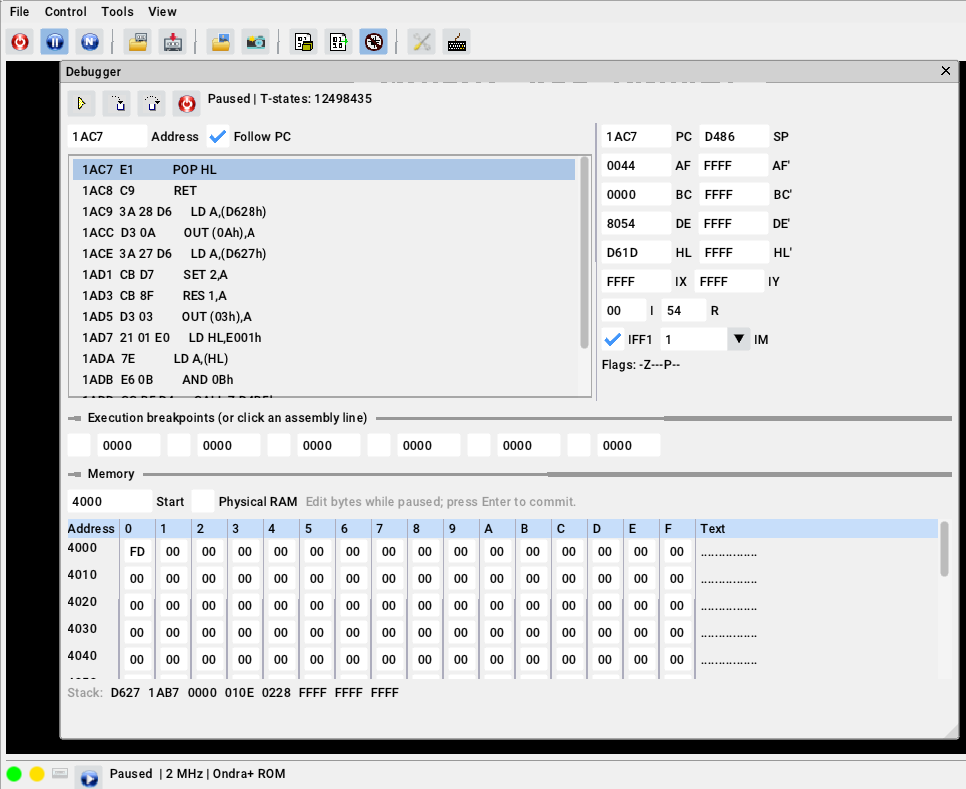
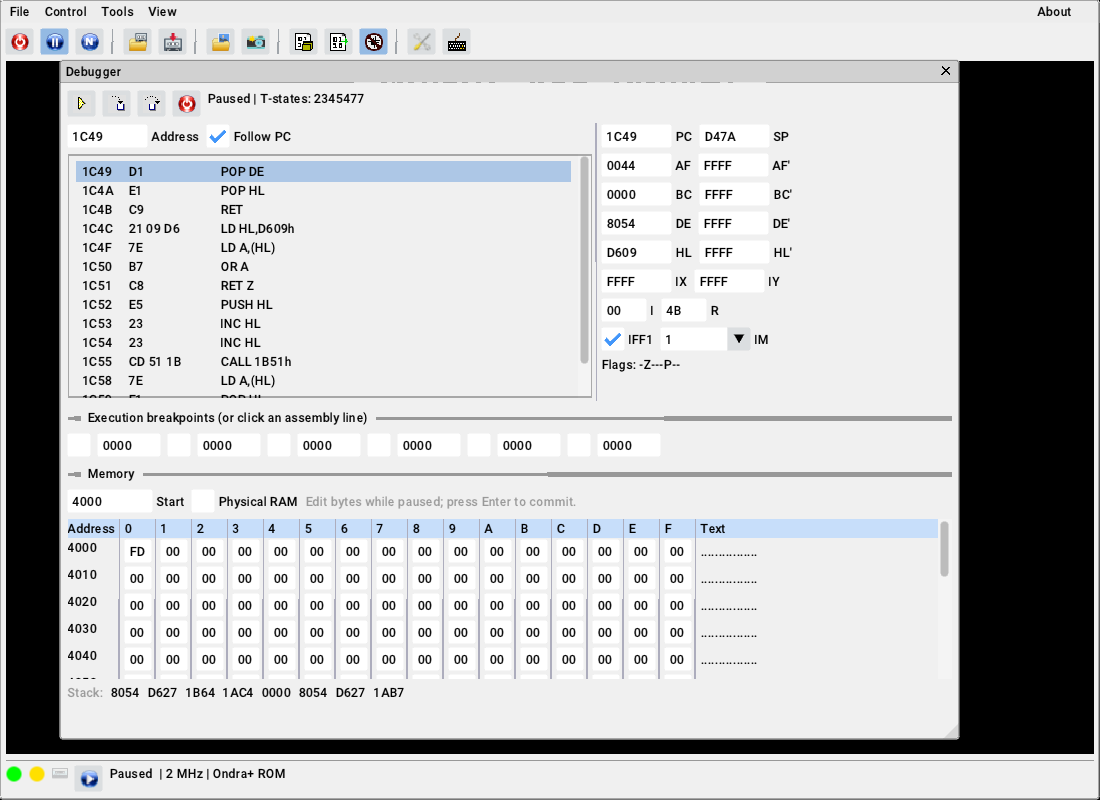
Align debugger disassembly in fixed columns

Changed region(s): [[0.0, 0.0, 1.0, 1.0], [0.9317, 0.0, 0.9627, 0.0304], [0.7764, 0.4259, 0.8075, 0.4563]]

diff --git a/src/ui.cpp b/src/ui.cpp
@@ -608,21 +608,35 @@ void Desktop::Impl::drawDebugger() {
         ImGui::SetNextItemWidth(80); if (hexInput("Address",assemblyAddress)) { assemblyAddress&=65535; followPc=false; } ImGui::SameLine(); ImGui::Checkbox("Follow PC",&followPc);
         if (followPc) assemblyAddress=Z80_PC(m.cpu());
         ImGui::BeginChild("Disassembly",ImVec2(0,245),ImGuiChildFlags_Borders);
-        unsigned address=assemblyAddress;
-        for (unsigned n=0;n<14;++n) {
-            const auto a=static_cast<std::uint16_t>(address); const auto instruction=disassemble(m,a);
-            char line[160],bytes[30]={};
-            for (unsigned i=0;i<std::min(4u,instruction.length);++i) std::snprintf(bytes+i*3,sizeof(bytes)-i*3,"%02X ",m.read(static_cast<std::uint16_t>(a+i)));
-            std::snprintf(line,sizeof(line),"%c %04X  %-12s  %s",m.breakpoints().count(a)?'*':' ',a,bytes,instruction.text.c_str());
-            if (ImGui::Selectable(line,a==Z80_PC(m.cpu()))) {
-                if (m.breakpoints().erase(a)) {
-                    for (unsigned i=0;i<bpAddresses.size();++i) if (bpAddresses[i]==a) bpEnabled[i]=false;
-                } else {
-                    m.breakpoints().insert(a);
-                    for (unsigned i=0;i<bpAddresses.size();++i) if (!bpEnabled[i]) { bpAddresses[i]=a; bpEnabled[i]=true; break; }
+        if (ImGui::BeginTable("Instructions",3,ImGuiTableFlags_SizingFixedFit)) {
+            // Spaces in the proportional UI font cannot align byte strings.
+            // Reserve fixed columns for the address and up to four bytes.
+            float hexWidth=0;
+            for (const char* digit="0123456789ABCDEF";*digit;++digit) hexWidth=std::max(hexWidth,ImGui::CalcTextSize(digit,digit+1).x);
+            const float space=ImGui::CalcTextSize(" ").x;
+            ImGui::TableSetupColumn("Address",ImGuiTableColumnFlags_WidthFixed,4*hexWidth+ImGui::CalcTextSize("* ").x);
+            ImGui::TableSetupColumn("Bytes",ImGuiTableColumnFlags_WidthFixed,8*hexWidth+3*space);
+            ImGui::TableSetupColumn("Instruction",ImGuiTableColumnFlags_WidthStretch);
+            unsigned address=assemblyAddress;
+            for (unsigned n=0;n<14;++n) {
+                const auto a=static_cast<std::uint16_t>(address); const auto instruction=disassemble(m,a);
+                char label[16],bytes[30]={};
+                for (unsigned i=0;i<std::min(4u,instruction.length);++i) std::snprintf(bytes+i*3,sizeof(bytes)-i*3,"%02X ",m.read(static_cast<std::uint16_t>(a+i)));
+                std::snprintf(label,sizeof(label),"%c %04X",m.breakpoints().count(a)?'*':' ',a);
+                ImGui::TableNextRow(); ImGui::TableNextColumn();
+                if (ImGui::Selectable(label,a==Z80_PC(m.cpu()),ImGuiSelectableFlags_SpanAllColumns)) {
+                    if (m.breakpoints().erase(a)) {
+                        for (unsigned i=0;i<bpAddresses.size();++i) if (bpAddresses[i]==a) bpEnabled[i]=false;
+                    } else {
+                        m.breakpoints().insert(a);
+                        for (unsigned i=0;i<bpAddresses.size();++i) if (!bpEnabled[i]) { bpAddresses[i]=a; bpEnabled[i]=true; break; }
+                    }
                 }
+                ImGui::TableNextColumn(); ImGui::TextUnformatted(bytes);
+                ImGui::TableNextColumn(); ImGui::TextUnformatted(instruction.text.c_str());
+                address=(address+instruction.length)&65535;
             }
-            address=(address+instruction.length)&65535;
+            ImGui::EndTable();
         }
         ImGui::EndChild();
         ImGui::TableNextColumn();
